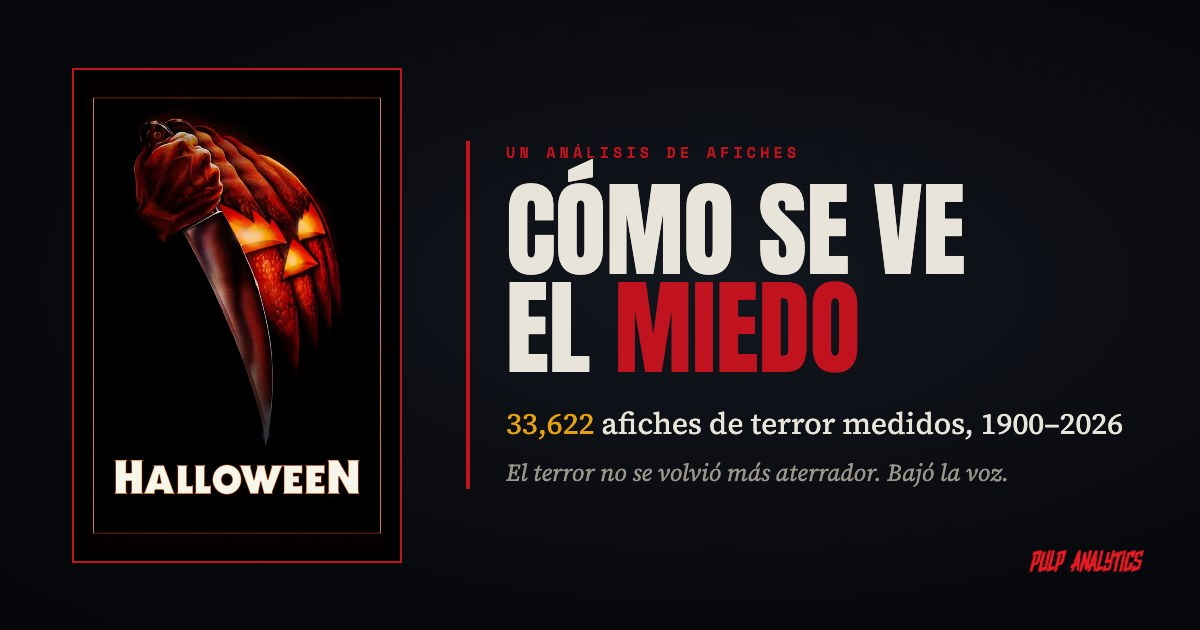
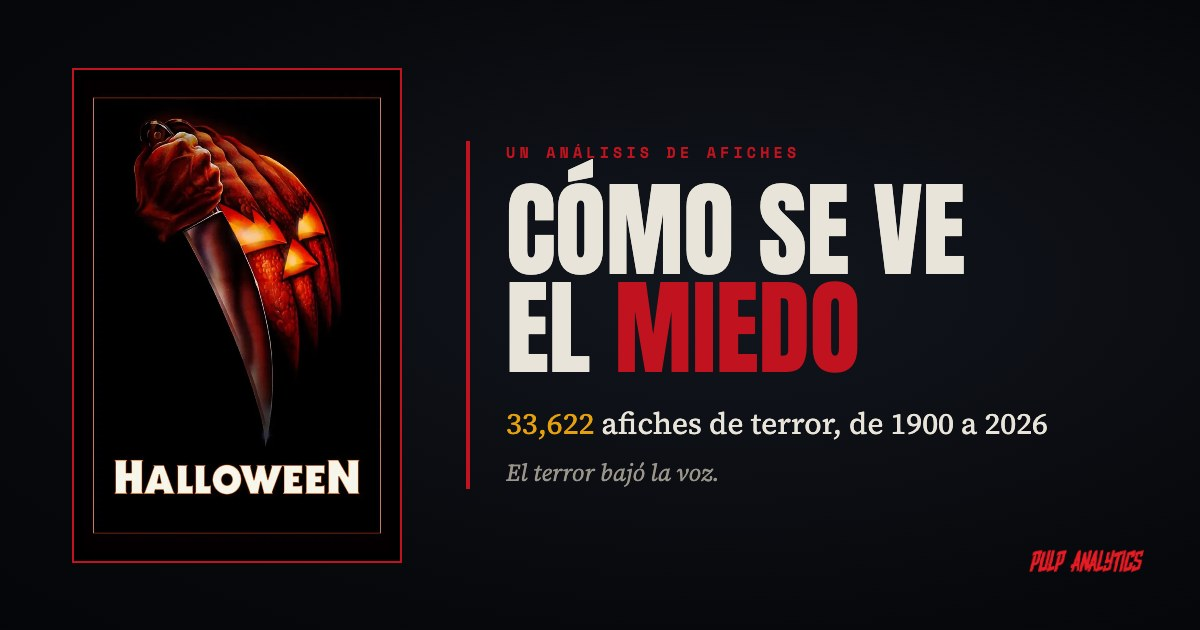
Spanish preview copy in the essay's own voice
Title, descriptions and card now reuse the essay's lines (first person,
'¿Cuándo dejó el terror de gritar?', 'El terror bajó la voz.', 'Los afiches
no mienten.') instead of a literal translation of the English tags.

Changed region(s): [[0.4933, 0.7238, 0.8325, 0.7841], [0.6783, 0.6333, 0.9558, 0.6937]]

diff --git a/site/es/index.html b/site/es/index.html
@@ -10,7 +10,7 @@
   some crawlers follow it and would read the English tags instead.
 -->
 <title>Cómo se ve el miedo — Pulp Analytics</title>
-<meta name="description" content="El terror no se volvió más aterrador. Bajó la voz. Un análisis de datos de 33,622 afiches de cine de terror (1900–2026): color, oscuridad, rostros, criaturas.">
+<meta name="description" content="¿Cuándo dejó el terror de gritar? Medí color, oscuridad, rostros y criaturas en 33,622 afiches de terror, de 1900 a 2026.">
 <meta name="theme-color" content="#0a0a0c">
 <link rel="icon" type="image/png" href="../assets/pa-mark.png">
 <link rel="canonical" href="https://juanpduque.github.io/what-fear-looks-like/es/">
@@ -22,14 +22,14 @@
 <meta property="og:locale" content="es_ES">
 <meta property="og:locale:alternate" content="en_US">
 <meta property="og:url" content="https://juanpduque.github.io/what-fear-looks-like/es/">
-<meta property="og:title" content="Cómo se ve el miedo: 33,622 afiches de terror, medidos">
-<meta property="og:description" content="El terror no se volvió más aterrador. Bajó la voz. Un siglo de datos de afiches de Pulp Analytics: oscuridad, rostros, sangre y el grito que se volvió susurro.">
+<meta property="og:title" content="Cómo se ve el miedo: medí 33,622 afiches de terror">
+<meta property="og:description" content="¿Cuándo dejó el terror de gritar? Medí color, oscuridad, rostros y criaturas en 33,622 afiches, de 1900 a 2026. Los afiches no mienten.">
 <meta property="og:image" content="https://juanpduque.github.io/what-fear-looks-like/assets/og-card-es.jpg">
 <meta property="og:image:width" content="1200">
 <meta property="og:image:height" content="630">
 <meta name="twitter:card" content="summary_large_image">
-<meta name="twitter:title" content="Cómo se ve el miedo: 33,622 afiches de terror, medidos">
-<meta name="twitter:description" content="El terror no se volvió más aterrador. Bajó la voz. Un siglo de datos de afiches de Pulp Analytics: oscuridad, rostros, sangre y el grito que se volvió susurro.">
+<meta name="twitter:title" content="Cómo se ve el miedo: medí 33,622 afiches de terror">
+<meta name="twitter:description" content="¿Cuándo dejó el terror de gritar? Medí color, oscuridad, rostros y criaturas en 33,622 afiches, de 1900 a 2026. Los afiches no mienten.">
 <meta name="twitter:image" content="https://juanpduque.github.io/what-fear-looks-like/assets/og-card-es.jpg">
 <script>
   (function () {

diff --git a/scripts/make_og_card.py b/scripts/make_og_card.py
@@ -36,8 +36,8 @@ CARDS = {
         "og-card-es.jpg",
         "Un análisis de afiches",
         'Cómo se ve<br>el <span class="fear">miedo</span>',
-        "<b>{n}</b> afiches de terror medidos, {y0}–{y1}",
-        "El terror no se volvió más aterrador. Bajó la voz.",
+        "<b>{n}</b> afiches de terror, de {y0} a {y1}",
+        "El terror bajó la voz.",
     ),
 }
 LOGO = SITE / "assets" / "pulp-analytics-red.png"
